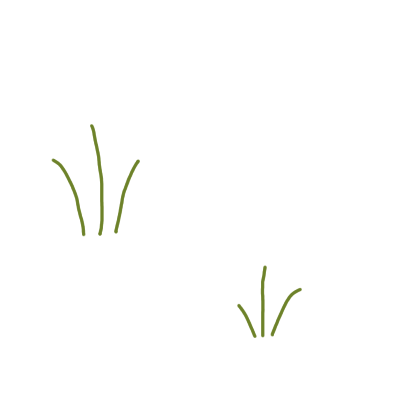
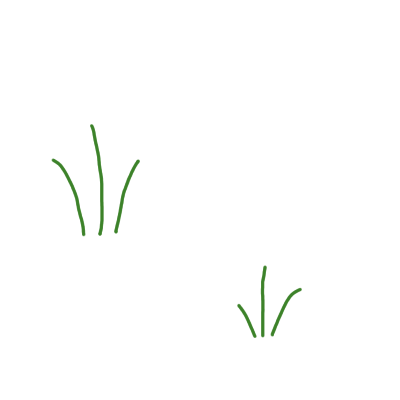
Make healthier grass

diff --git a/client/style.css b/client/style.css
@@ -41,7 +41,7 @@ body {
     display: inline-block;
     width: var(--tile-size);
     aspect-ratio: 1;
-    background-color: #bfdb59;
+    background-color: #88db59;
     margin-left: var(--gap);
     margin-bottom: var(--gap);
     background-image: url("assets/grass.png");
@@ -56,7 +56,7 @@ body {
 }
 
 .tile:nth-child(odd) {
-    background-color: #aac83b;
+    background-color: #67c83b;
 }
 
 #player-deck {
